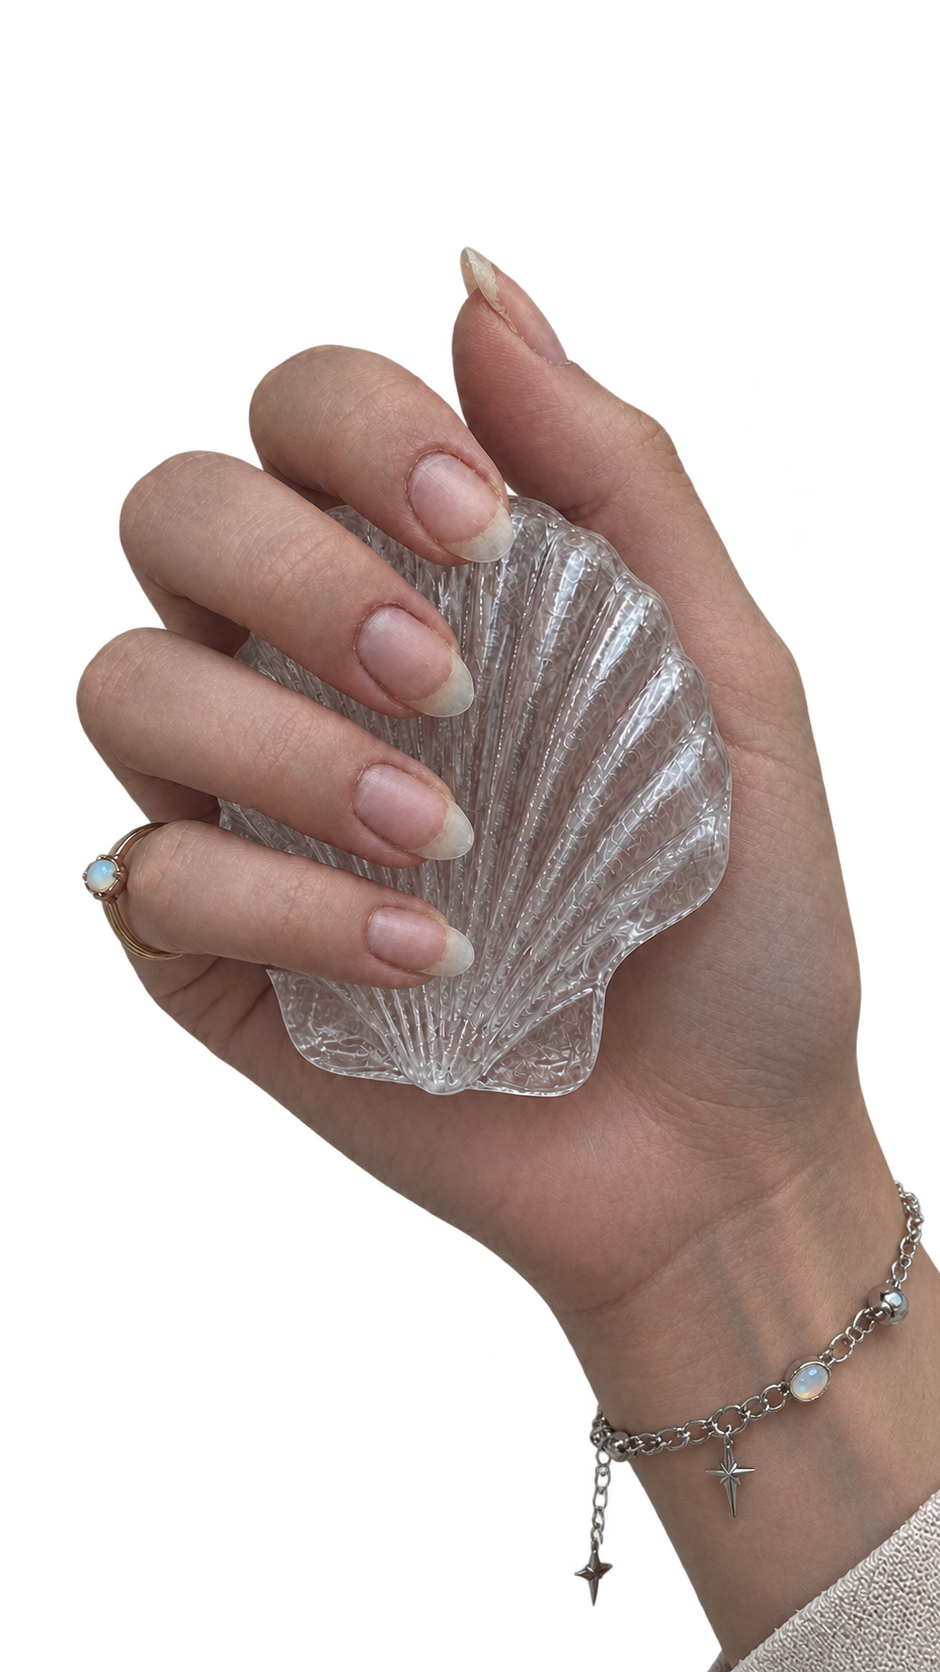
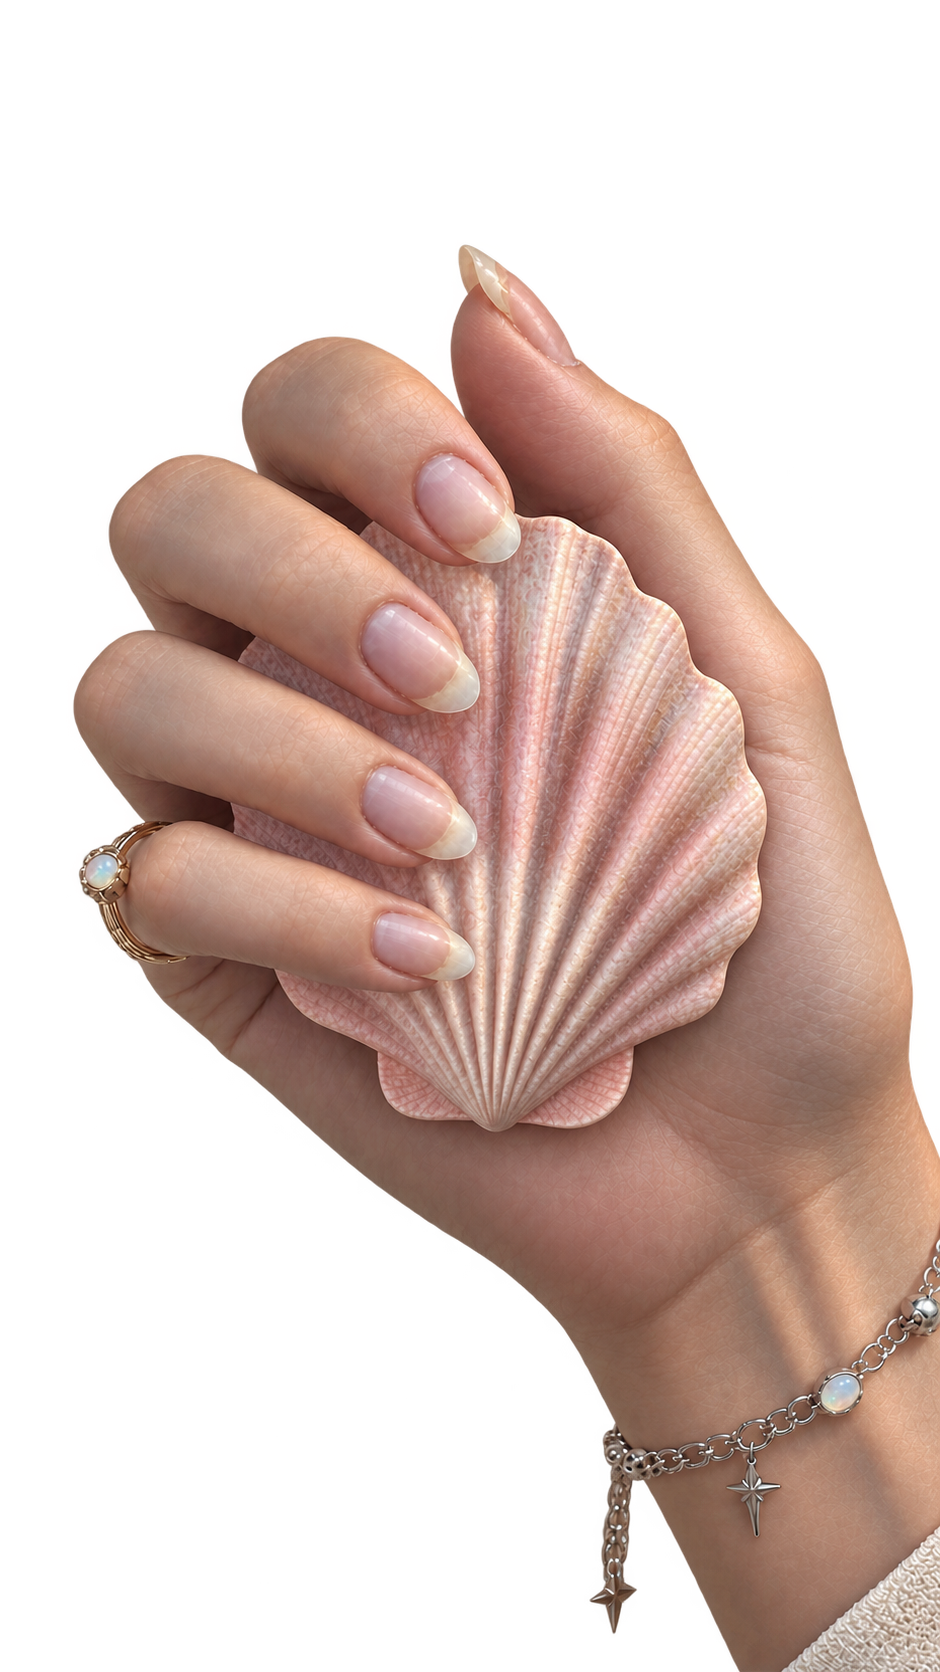
Move hero text up, fix magnifier, banana position, Dancing Script font

diff --git a/index.html b/index.html
@@ -9,7 +9,7 @@
     <meta name="keywords" content="маникюр Гирне, педикюр Кипр, нейл студия, nail studio Kyrenia">
     <link rel="preconnect" href="https://fonts.googleapis.com">
     <link rel="preconnect" href="https://fonts.gstatic.com" crossorigin>
-    <link href="https://fonts.googleapis.com/css2?family=Cormorant+Garamond:wght@300;400;500;600&family=Manrope:wght@300;400;500;600&display=swap" rel="stylesheet">
+    <link href="https://fonts.googleapis.com/css2?family=Cormorant+Garamond:wght@300;400;500;600&family=Manrope:wght@300;400;500;600&family=Dancing+Script:wght@400;500;600;700&display=swap" rel="stylesheet">
     <link rel="stylesheet" href="background-shapes.css?v=2">
     <link rel="stylesheet" href="glass-effect.css?v=2">
     <link rel="stylesheet" href="style.css?v=2">
@@ -60,8 +60,10 @@
 
             <!-- Декоративные PNG с прозрачным фоном -->
             <div class="hero-banana">
+                <!-- banana1 — всегда виден (без маникюра) -->
                 <img src="images/banana1.png" alt="" class="hero-banana-front">
-                <img src="images/banana2.png" alt="" class="hero-banana-back">
+                <!-- banana2 — маникюр, проявляется через лупу -->
+                <img src="images/banana2.png" alt="" class="hero-banana-back" id="bananaReveal">
             </div>
             
             <div class="hero-container">
@@ -187,7 +189,7 @@
                                 <path d="M12 2L15 8L22 9L17 14L18 21L12 18L6 21L7 14L2 9L9 8L12 2Z" stroke="currentColor" stroke-width="1.5" stroke-linecap="round" stroke-linejoin="round"/>
                             </svg>
                         </div>
-                        <div class="category-name">Окрашивание</div>
+                        <div class="category-name">Маникюр</div>
                     </div>
                     
                     <div class="category-item">
@@ -198,7 +200,7 @@
                                 <path d="M8 3L12 7L16 3" stroke="currentColor" stroke-width="1.5" stroke-linecap="round" stroke-linejoin="round"/>
                             </svg>
                         </div>
-                        <div class="category-name">Свадебный макияж</div>
+                        <div class="category-name">Педикюр</div>
                     </div>
                     
                     <div class="category-item">
@@ -209,7 +211,7 @@
                                 <path d="M2 12L12 17L22 12" stroke="currentColor" stroke-width="1.5" stroke-linecap="round" stroke-linejoin="round"/>
                             </svg>
                         </div>
-                        <div class="category-name">Нейл-студия</div>
+                        <div class="category-name">Доп.услуги</div>
                     </div>
                     
                     <div class="category-item">
@@ -614,29 +616,15 @@
                     const magCx = magnifierRect.left + magnifierRect.width  / 2;
                     const magCy = magnifierRect.top  + magnifierRect.height / 2;
 
-                    const bananaBack = hero.querySelector('.hero-banana-back');
-                    if (bananaBack) {
-                        const bbRect = bananaBack.getBoundingClientRect();
-                        // Центр повёрнутого изображения
-                        const bbCx = bbRect.left + bbRect.width  / 2;
-                        const bbCy = bbRect.top  + bbRect.height / 2;
+                    const bananaBack = document.getElementById('bananaReveal');
+                    if (!bananaBack) return;
+                    const bbRect = bananaBack.getBoundingClientRect();
+                    if (!bbRect.width) return;
 
-                        // Вектор от центра изображения до центра лупы
-                        const dx = magCx - bbCx;
-                        const dy = magCy - bbCy;
-
-                        // Обратное вращение (-20deg → +20deg)
-                        const a = 20 * Math.PI / 180;
-                        const rx = dx * Math.cos(a) - dy * Math.sin(a);
-                        const ry = dx * Math.sin(a) + dy * Math.cos(a);
-
-                        // Переводим в координаты относительно изображения
-                        const bx = bananaBack.offsetWidth  / 2 + rx;
-                        const by = bananaBack.offsetHeight / 2 + ry;
-
-                        bananaBack.style.setProperty('--magnifier-x', bx + 'px');
-                        bananaBack.style.setProperty('--magnifier-y', by + 'px');
-                    }
+                    const bx = magCx - bbRect.left;
+                    const by = magCy - bbRect.top;
+                    bananaBack.style.setProperty('--magnifier-x', bx + 'px');
+                    bananaBack.style.setProperty('--magnifier-y', by + 'px');
                 }
                 
                 // Переключение на абсолютное позиционирование при первом перетаскивании

diff --git a/style.css b/style.css
@@ -19,7 +19,7 @@
     --gradient-hover: linear-gradient(135deg, #EBC4C4 0%, #D4AF37 100%);
     
     /* Typography */
-    --font-serif: 'Cormorant Garamond', serif;
+    --font-serif: 'Dancing Script', 'Cormorant Garamond', serif;
     --font-sans: 'Manrope', sans-serif;
     
     /* Spacing */
@@ -427,7 +427,7 @@ main {
     max-width: 900px;
     width: 100%;
     margin: 0 auto;
-    padding: 10rem 2rem 10rem;
+    padding: 5.5rem 2rem 10rem;
     text-align: left;
     pointer-events: none;
 }
@@ -450,12 +450,12 @@ main {
 
 .hero-title {
     font-family: var(--font-serif);
-    font-size: 3.5rem;
-    font-weight: 500;
-    letter-spacing: 0.02em;
+    font-size: 4.5rem;
+    font-weight: 700;
+    letter-spacing: 0.01em;
     color: #FFFFFF;
-    margin-bottom: 1.25rem;
-    line-height: 1.15;
+    margin-bottom: 1rem;
+    line-height: 1.1;
     text-shadow: 0 4px 16px rgba(0, 0, 0, 0.5), 0 2px 6px rgba(0, 0, 0, 0.4);
 }
 
@@ -525,24 +525,74 @@ main {
 /* Декоративные PNG — рука с бананом */
 .hero-banana {
     position: absolute;
-    right: -18%;
-    bottom: calc(24px + 10%);
+    right: calc(-18% - 29px + 10px);
+    bottom: calc(24px + 10% + 70px);
     width: 66.7%;
     z-index: 3;
     pointer-events: none;
 }
 
-/* banana2 (скрытый) — поверх banana1, полностью невидим пока лупа не наведена */
+/* banana1 — всегда виден */
+.hero-banana-front {
+    display: block;
+    width: 100%;
+    height: auto;
+    position: relative;
+    z-index: 1;
+}
+
+/* banana2 — нижний слой, проявляется через лупу */
 .hero-banana-back {
     display: block;
     position: absolute;
     top: 0;
     left: 0;
     width: 100%;
-    height: auto;
+    height: 100%;
+    object-fit: cover;
     z-index: 2;
-    transform: rotate(-20deg);
-    transform-origin: center center;
+    -webkit-mask-image: radial-gradient(
+        circle 150px at var(--magnifier-x, -9999px) var(--magnifier-y, -9999px),
+        black 0%, black 95%, transparent 100%
+    );
+    mask-image: radial-gradient(
+        circle 150px at var(--magnifier-x, -9999px) var(--magnifier-y, -9999px),
+        black 0%, black 95%, transparent 100%
+    );
+}
+@media (max-width: 768px) {
+    .hero-banana-back {
+        -webkit-mask-image: radial-gradient(
+            circle 97px at var(--magnifier-x, -9999px) var(--magnifier-y, -9999px),
+            black 0%, black 95%, transparent 100%
+        );
+        mask-image: radial-gradient(
+            circle 97px at var(--magnifier-x, -9999px) var(--magnifier-y, -9999px),
+            black 0%, black 95%, transparent 100%
+        );
+    }
+}
+
+/* banana1 — всегда виден */
+.hero-banana-front {
+    display: block;
+    width: 100%;
+    height: auto;
+    position: relative;
+    z-index: 1;
+}
+
+/* banana2 (маникюр) — поверх banana1, видим только под лупой */
+.hero-banana-back {
+    display: block;
+    position: absolute;
+    top: 0;
+    left: 0;
+    width: 100%;
+    height: 100%;
+    object-fit: contain;
+    object-position: top left;
+    z-index: 2;
     -webkit-mask-image: radial-gradient(
         circle 150px at var(--magnifier-x, -9999px) var(--magnifier-y, -9999px),
         black 0%,
@@ -557,25 +607,7 @@ main {
     );
 }
 
-/* banana1 — всегда виден, тот же наклон */
-.hero-banana-front {
-    display: block;
-    width: 100%;
-    height: auto;
-    position: relative;
-    z-index: 1;
-    transform: rotate(-20deg);
-    transform-origin: center center;
-}
-
-/* Мобильные */
 @media (max-width: 768px) {
-    .hero-banana {
-        width: 80.5%;
-        right: -18%;
-        bottom: calc(24px + 10%);
-    }
-
     .hero-banana-back {
         -webkit-mask-image: radial-gradient(
             circle 97px at var(--magnifier-x, -9999px) var(--magnifier-y, -9999px),
@@ -589,6 +621,14 @@ main {
             black 99%,
             transparent 100%
         );
+    }
+}
+
+@media (max-width: 768px) {
+    .hero-banana {
+        width: 80.5%;
+        right: calc(-18% - 29px + 10px);
+        bottom: calc(24px + 10% + 70px);
     }
 }
 
@@ -1601,7 +1641,7 @@ main {
     }
     
     .hero-container {
-        padding: 1.2rem 1.5rem 6rem;
+        padding: 75px 1.5rem 6rem;
         text-align: left;
     }
     
@@ -1616,7 +1656,7 @@ main {
     }
     
     .hero-title {
-        font-size: 2.5rem;
+        font-size: 3.2rem;
         line-height: 1.1;
         margin-bottom: 0.75rem;
     }
